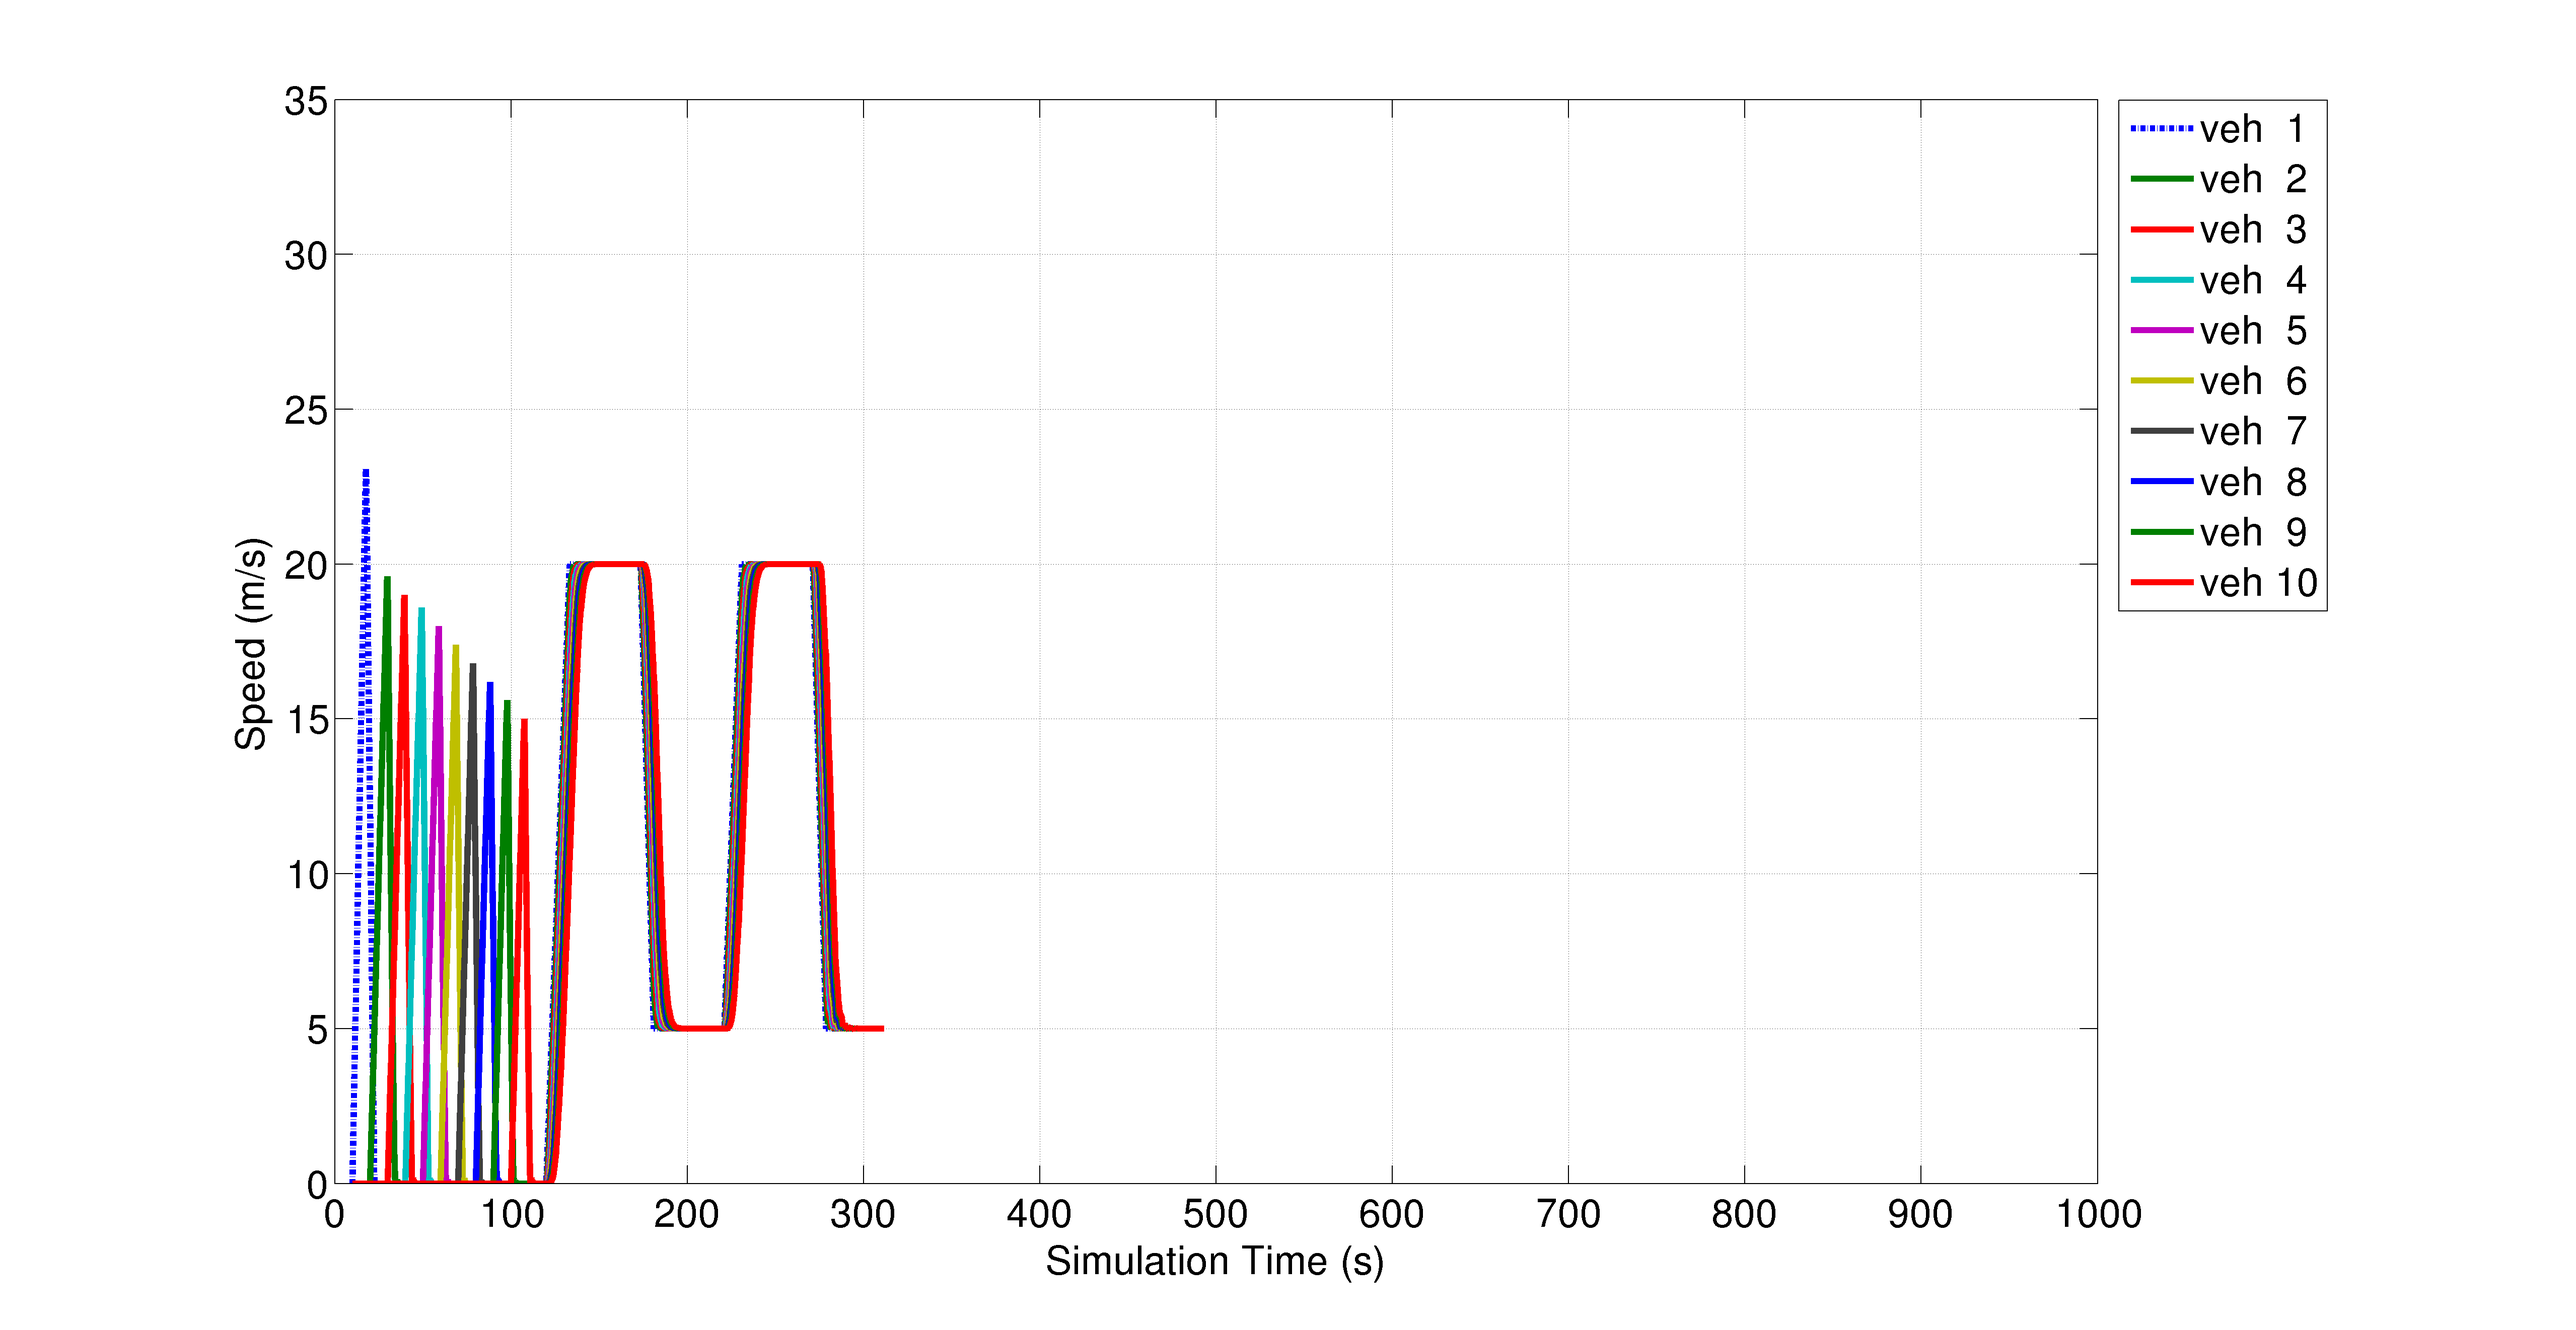
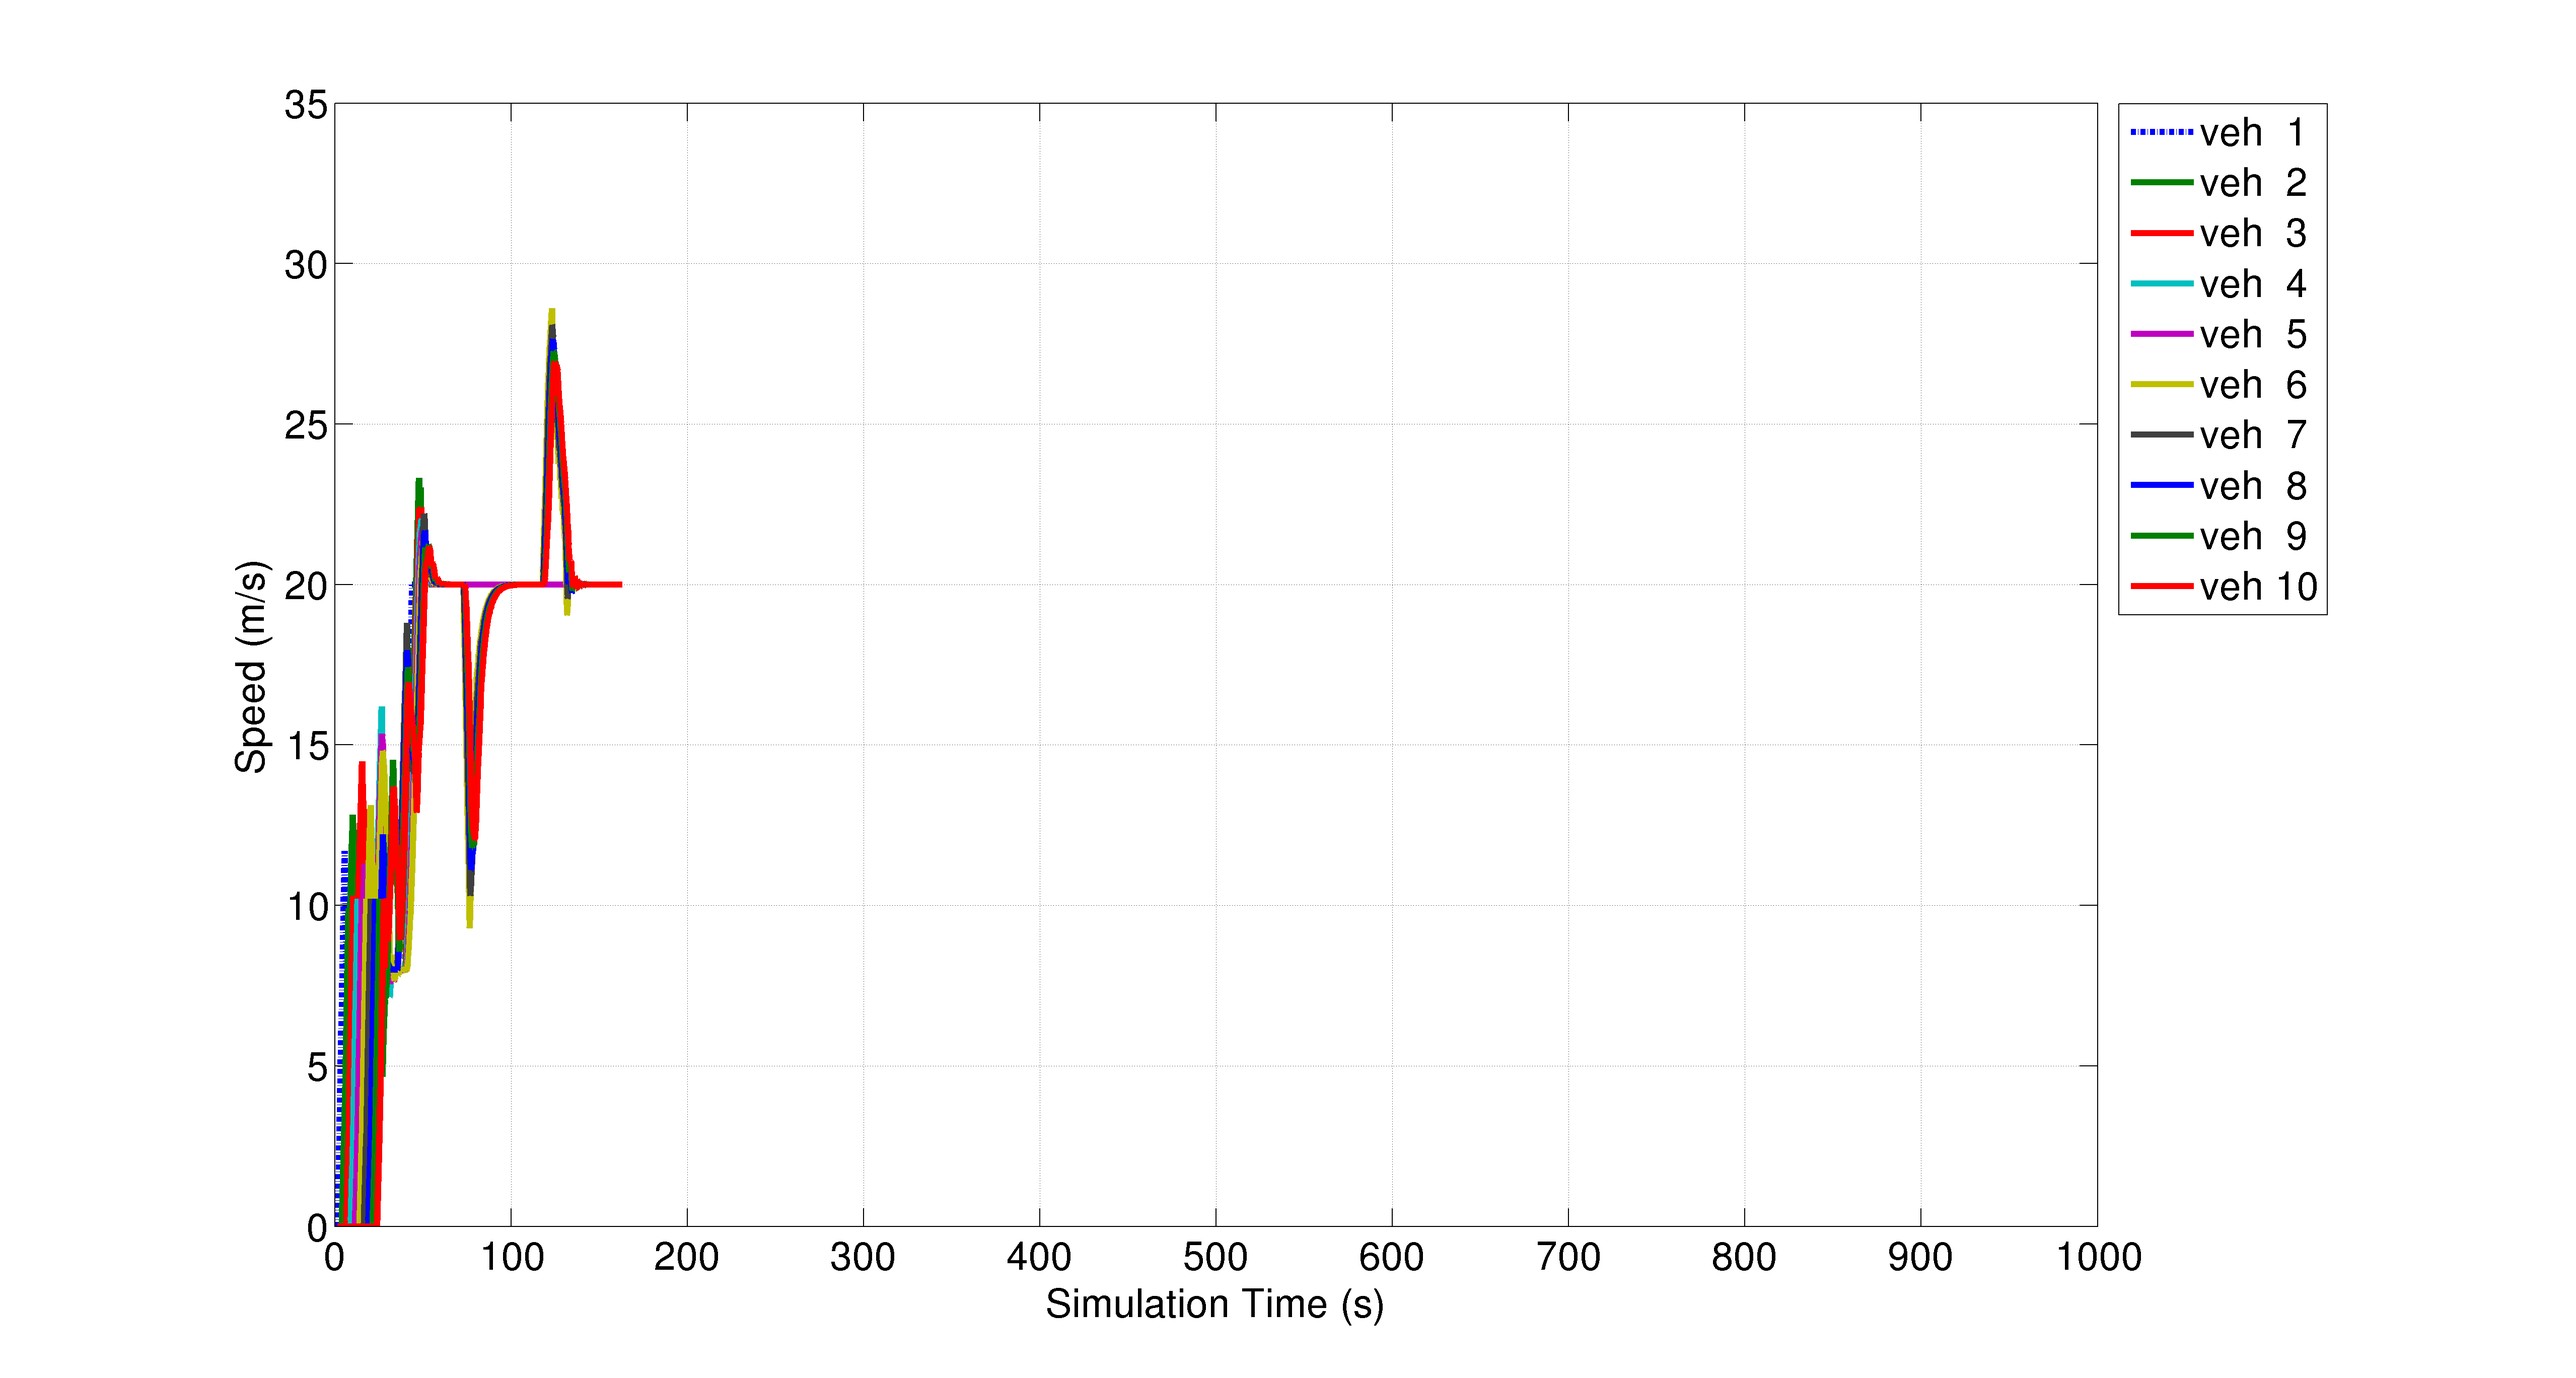
Adding new config CACCVehiclePlatoonManag4 to draw speed profile in split-merge
Former-commit-id: e622b5145074a1752171762900251ee60701a2b3
Former-commit-id: 39cffcade22c9e875224b9e8df0b4d7980616789

diff --git a/application/core/ApplV_07_Coordinator.cc b/application/core/ApplV_07_Coordinator.cc
@@ -75,8 +75,14 @@ void ApplVCoordinator::handlePositionUpdate(cObject* obj)
 
 void ApplVCoordinator::coordinator()
 {
+    // a simple split then merge
+    // to draw the speed profile
+    if(coordinationMode == 0)
+    {
+        scenario0();
+    }
     // merge and split (for youtube video)
-    if(coordinationMode == 1)
+    else if(coordinationMode == 1)
     {
         scenario1();
     }
@@ -110,6 +116,28 @@ void ApplVCoordinator::coordinator()
         error("not a valid coordination mode!");
 
     scheduleAt(simTime() + 0.1, coordination);
+}
+
+
+void ApplVCoordinator::scenario0()
+{
+    if(simTime().dbl() == 40)
+    {
+        TraCI->commandSetSpeed("CACC1", 20.);
+    }
+    else if(simTime().dbl() == 73)
+    {
+        // disable automatic merging
+        mergeEnabled = false;
+
+        if(SUMOvID == "CACC1")
+            splitFromPlatoon(5);
+    }
+    else if(simTime().dbl() == 118)
+    {
+        // enable automatic merging
+        mergeEnabled = true;
+    }
 }
 
 

diff --git a/matlab/Speed.m b/matlab/Speed.m
@@ -25,7 +25,7 @@ for s=1:1
     end
     
     file_id = fopen(path);
-    formatSpec = '%d %f %s %s %s %f %f %f %s %f %f';
+    formatSpec = '%d %f %s %s %s %f %f %f %s %f %f %f';
     C_text = textscan(file_id, formatSpec, 'HeaderLines', 3);
     fclose(file_id);
 
@@ -36,8 +36,8 @@ for s=1:1
     vehicles = C_text{1,3};    
     speeds = C_text{1,7};
     accel = C_text{1,8};
-    gaps = C_text{1,10};
-    timeGaps = C_text{1,11};
+    gaps = C_text{1,11};
+    timeGaps = C_text{1,12};
 
     % ---------------------------------------------------------------
     

diff --git a/application/core/ApplV_07_Coordinator.h b/application/core/ApplV_07_Coordinator.h
@@ -24,6 +24,8 @@ class ApplVCoordinator : public ApplVPlatoonMg
 
 	private:
         void coordinator();
+
+        void scenario0();
         void scenario1();
         void scenario2();
         void scenario3();
